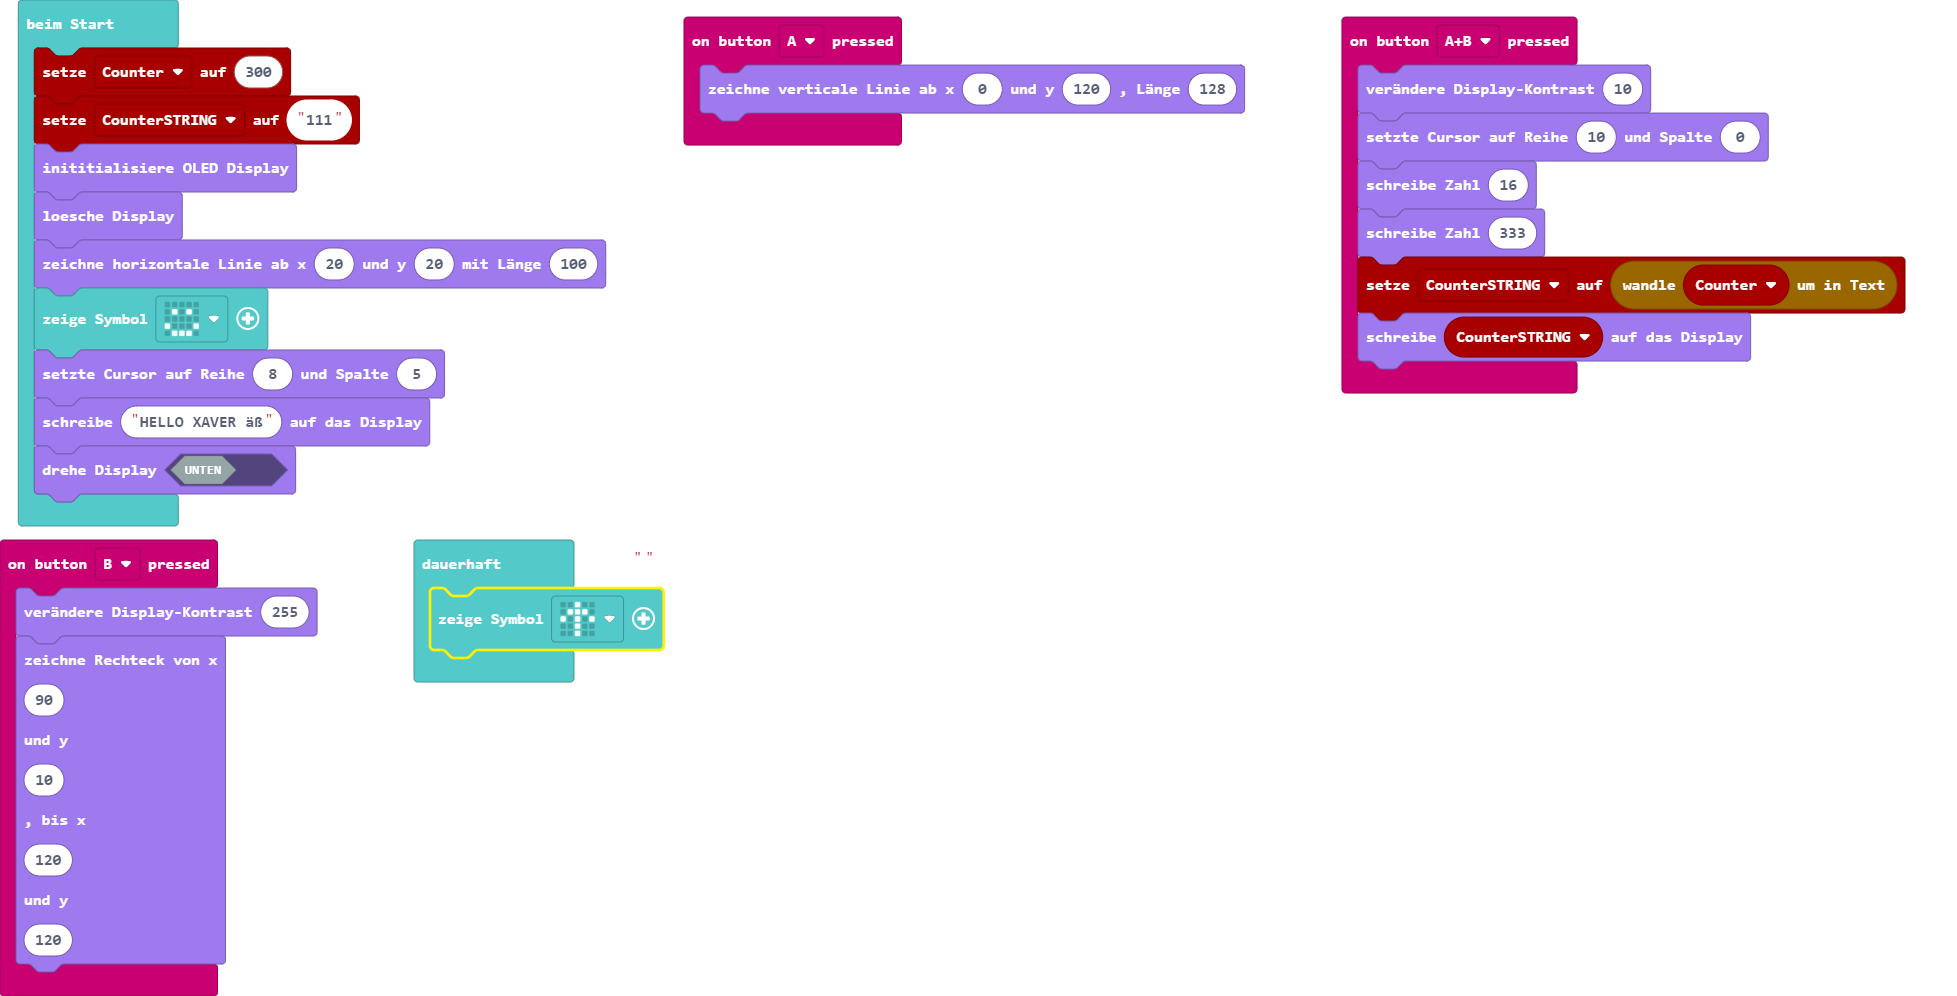
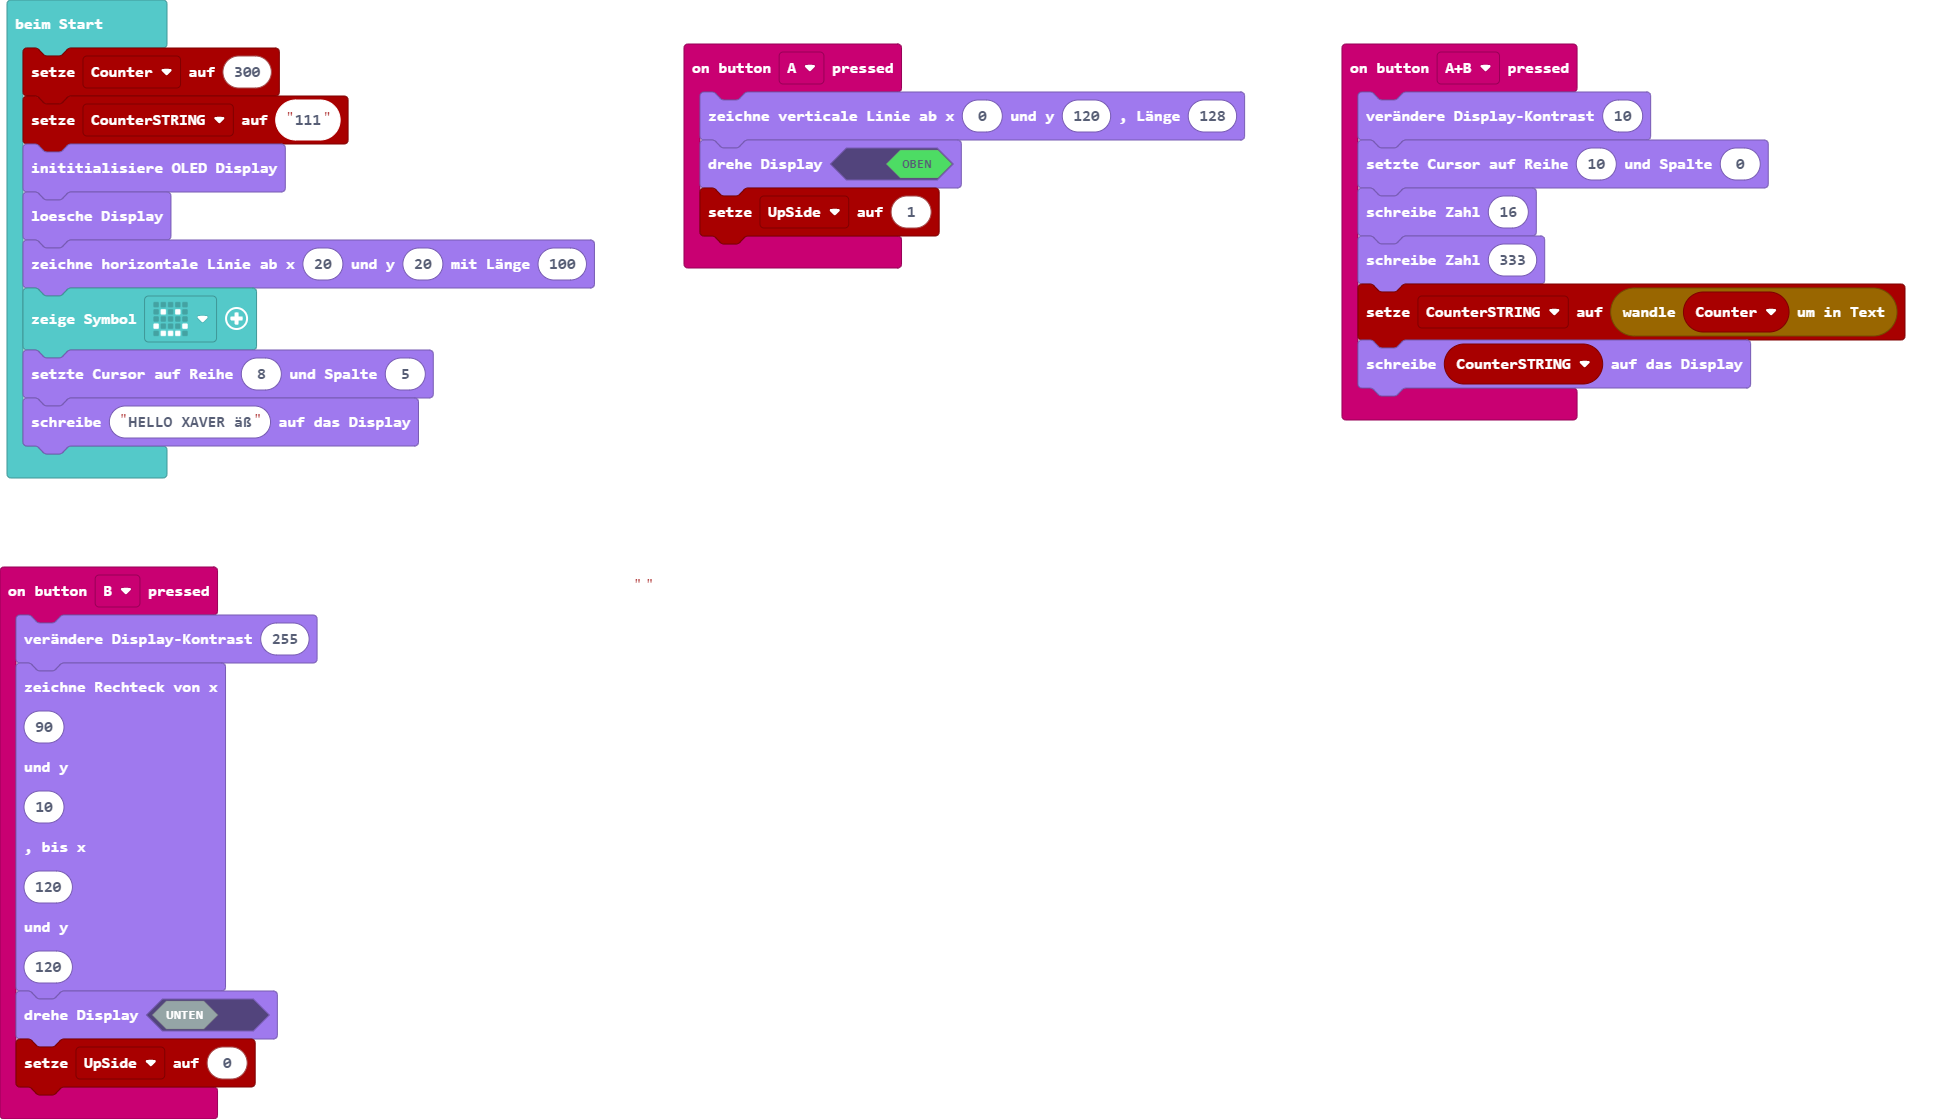
Aktualisiere main.blocks, main.ts, custom.ts

Changed region(s): [[0.0, 0.0, 0.3429, 0.996], [0.6857, 0.0, 0.9974, 0.4046], [0.3429, 0.0, 0.6546, 0.249]]

diff --git a/main.ts b/main.ts
@@ -1,5 +1,7 @@
 input.onButtonPressed(Button.A, function () {
     groveOledDisplay.drawVLine(0, 120, 128)
+    groveOledDisplay.flipDisplay(true)
+    UpSide = 1
 })
 input.onButtonPressed(Button.AB, function () {
     groveOledDisplay.setContrast(10)
@@ -17,7 +19,10 @@ input.onButtonPressed(Button.B, function () {
     120,
     120
     )
+    groveOledDisplay.flipDisplay(false)
+    UpSide = 0
 })
+let UpSide = 0
 let CounterSTRING = ""
 let Counter = 0
 Counter = 300
@@ -28,7 +33,3 @@ groveOledDisplay.drawHLine(20, 20, 100)
 basic.showIcon(IconNames.Happy)
 groveOledDisplay.setTextXY(8, 5)
 groveOledDisplay.writeString("HELLO XAVER äß")
-groveOledDisplay.flipDisplay(false)
-basic.forever(function () {
-    basic.showIcon(IconNames.ArrowNorth)
-})

diff --git a/custom.ts b/custom.ts
@@ -153,7 +153,7 @@ namespace groveOledDisplay {
         //% direction.shadow="toggleYesNo"
         //% weight=85
         export function flipDisplay(direction:boolean) {  
-            if (direction = true){
+            if (direction){
                 sendCommand(0xA1);
                 sendCommand(0xC8);
                 basic.showIcon(IconNames.ArrowSouth);
